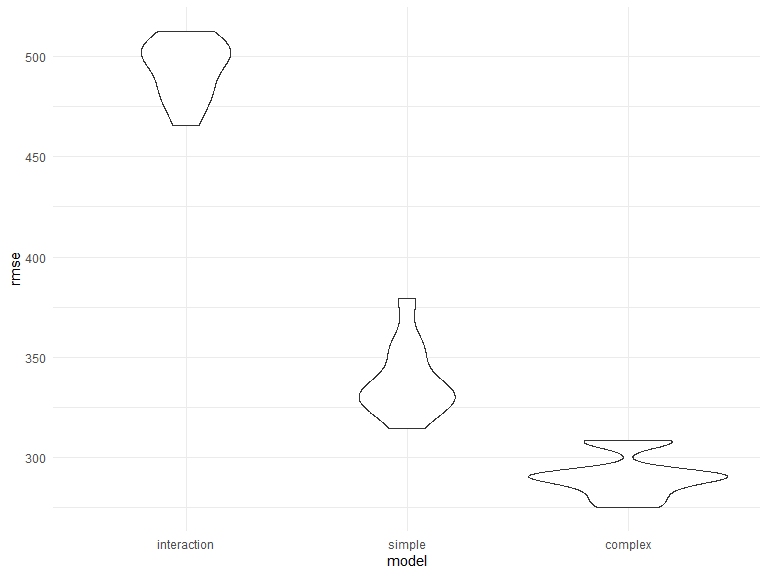
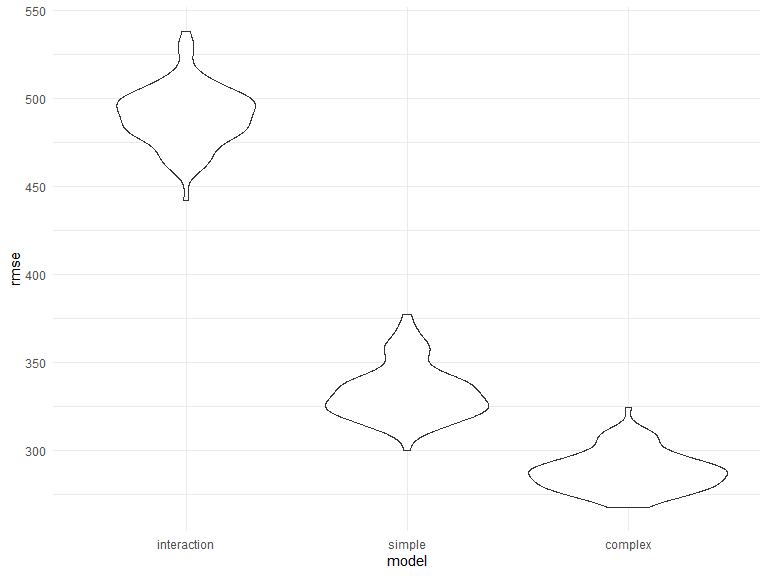
Working on discriptions- having issues with math mode in latex

diff --git a/p8105_hw6_jt3175.md b/p8105_hw6_jt3175.md
@@ -5,9 +5,6 @@ Julia Thompson
 
 ## Problem 1
 
-Load and clean the data for regression analysis (i.e. convert numeric to
-factor where appropriate, check for missing data, etc.).
-
 We load and clean the data for regression analysis, and find that there
 are no missing values in any of the columns. We also recode and convert
 *babysex*, *frace*, *malform*, and *mrace* to factor variables.
@@ -24,15 +21,8 @@ birthweight = read_csv("./data/birthweight.csv")
     ## See spec(...) for full column specifications.
 
 ``` r
-# check for missing data
-
-ismissing = map(.x = birthweight, ~ sum(is.na(.x))) %>%  # why do you need the ~ ?!?
+ismissing = map(.x = birthweight, ~ sum(is.na(.x))) %>%  
   bind_cols()
-
-# male = 1, female = 2
-# 1 = White, 2 = Black, 3 = Asian, 4 = Puerto Rican, 8 = Other, 9 = Unknown
-# 0 = absent, 1 = present
-# 1 = White, 2 = Black, 3 = Asian, 4 = Puerto Rican, 8 = Other
 
 # Recode variables to make sense
 
@@ -54,13 +44,6 @@ birthweight = birthweight %>%
     mrace = factor(mrace, levels = c("white", "black", "asian", "puerto rican", "other"))
   )
 ```
-
-Propose a regression model for birthweight. This model may be based on a
-hypothesized structure for the factors that underly birthweight, on a
-data-driven model-building process, or a combination of the two.
-Describe your modeling process and show a plot of model residuals
-against fitted values – use add\_predictions and add\_residuals in
-making this plot.
 
 We used a hypothesized structure consulting literature for the factors
 that underly birthweight to reduce our number of potential predictors.
@@ -124,68 +107,24 @@ ggplot(birthweight, aes(x = pred, y = resid))+
 
 <img src="p8105_hw6_jt3175_files/figure-gfm/unnamed-chunk-2-1.png" width="90%" />
 
-Compare your model to two others:
+We compare the above model to two others using cross validation:
 
-One using length at birth and gestational age as predictors (main
-effects only) One using head circumference, length, sex, and all
-interactions (including the three-way interaction) between these
+  - One using length at birth and gestational age as predictors (main
+    effects only)
+  - One using head circumference, length, sex, and all interactions
+    (including the three-way interaction) between these
+
+<!-- end list -->
 
 ``` r
 # This is just for me to think about it 
 
-simple_model_given = lm(bwt ~ blength + gaweeks, data = birthweight)
-summary(simple_model_given)
+# simple_model_given = lm(bwt ~ blength + gaweeks, data = birthweight)
+# summary(simple_model_given)
+#   
+# complex_model_given = lm(bwt ~ babysex * bhead * blength, data = birthweight)
+# summary(complex_model_given)
 ```
-
-    ## 
-    ## Call:
-    ## lm(formula = bwt ~ blength + gaweeks, data = birthweight)
-    ## 
-    ## Residuals:
-    ##     Min      1Q  Median      3Q     Max 
-    ## -1709.6  -215.4   -11.4   208.2  4188.8 
-    ## 
-    ## Coefficients:
-    ##              Estimate Std. Error t value Pr(>|t|)    
-    ## (Intercept) -4347.667     97.958  -44.38   <2e-16 ***
-    ## blength       128.556      1.990   64.60   <2e-16 ***
-    ## gaweeks        27.047      1.718   15.74   <2e-16 ***
-    ## ---
-    ## Signif. codes:  0 '***' 0.001 '**' 0.01 '*' 0.05 '.' 0.1 ' ' 1
-    ## 
-    ## Residual standard error: 333.2 on 4339 degrees of freedom
-    ## Multiple R-squared:  0.5769, Adjusted R-squared:  0.5767 
-    ## F-statistic:  2958 on 2 and 4339 DF,  p-value: < 2.2e-16
-
-``` r
-complex_model_given = lm(bwt ~ babysex * bhead * blength, data = birthweight)
-summary(complex_model_given)
-```
-
-    ## 
-    ## Call:
-    ## lm(formula = bwt ~ babysex * bhead * blength, data = birthweight)
-    ## 
-    ## Residuals:
-    ##      Min       1Q   Median       3Q      Max 
-    ## -1132.99  -190.42   -10.33   178.63  2617.96 
-    ## 
-    ## Coefficients:
-    ##                               Estimate Std. Error t value Pr(>|t|)    
-    ## (Intercept)                 -7176.8170  1264.8397  -5.674 1.49e-08 ***
-    ## babysexfemale                6374.8684  1677.7669   3.800 0.000147 ***
-    ## bhead                         181.7956    38.0542   4.777 1.84e-06 ***
-    ## blength                       102.1269    26.2118   3.896 9.92e-05 ***
-    ## babysexfemale:bhead          -198.3932    51.0917  -3.883 0.000105 ***
-    ## babysexfemale:blength        -123.7729    35.1185  -3.524 0.000429 ***
-    ## bhead:blength                  -0.5536     0.7802  -0.710 0.478012    
-    ## babysexfemale:bhead:blength     3.8781     1.0566   3.670 0.000245 ***
-    ## ---
-    ## Signif. codes:  0 '***' 0.001 '**' 0.01 '*' 0.05 '.' 0.1 ' ' 1
-    ## 
-    ## Residual standard error: 287.7 on 4334 degrees of freedom
-    ## Multiple R-squared:  0.6849, Adjusted R-squared:  0.6844 
-    ## F-statistic:  1346 on 7 and 4334 DF,  p-value: < 2.2e-16
 
 Make this comparison in terms of the cross-validated prediction error;
 use crossv\_mc and functions in purrr as appropriate.
@@ -193,12 +132,7 @@ use crossv\_mc and functions in purrr as appropriate.
 ``` r
 # need to create testing and training datasets to use on all 3 models.
 
-# models to compare:
-# interaction_model
-# simple_model_given
-# complex_model_given
-
-cv_df = crossv_mc(birthweight, 10)
+cv_df = crossv_mc(birthweight, 100)
 
 cv_df = cv_df %>% 
   mutate(
@@ -221,7 +155,7 @@ cv_df =
 
 cv_df %>% 
   select(starts_with("rmse")) %>% 
-pivot_longer(
+  pivot_longer(
     everything(),
     names_to = "model", 
     values_to = "rmse",
@@ -268,7 +202,8 @@ We’ll focus on a simple linear regression with tmax as the response and
 tmin as the predictor.
 
 Use 5000 bootstrap samples and, for each bootstrap sample, produce
-estimates of these two quantities.
+estimates of
+\[ \hat{r}^2\ \text{and}\ log(\hat{{\beta}_0} * \hat{{\beta}_1}) \]
 
 ``` r
 bootstrap = 
